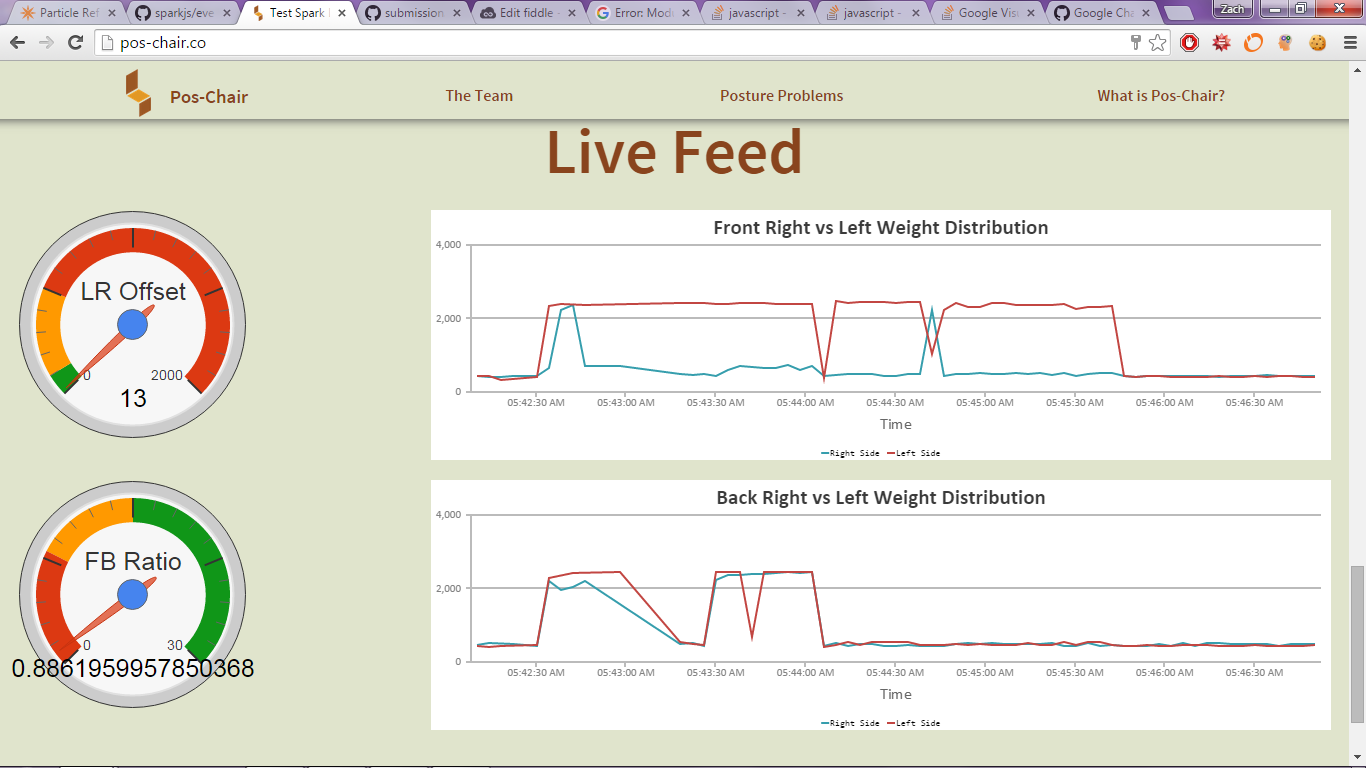
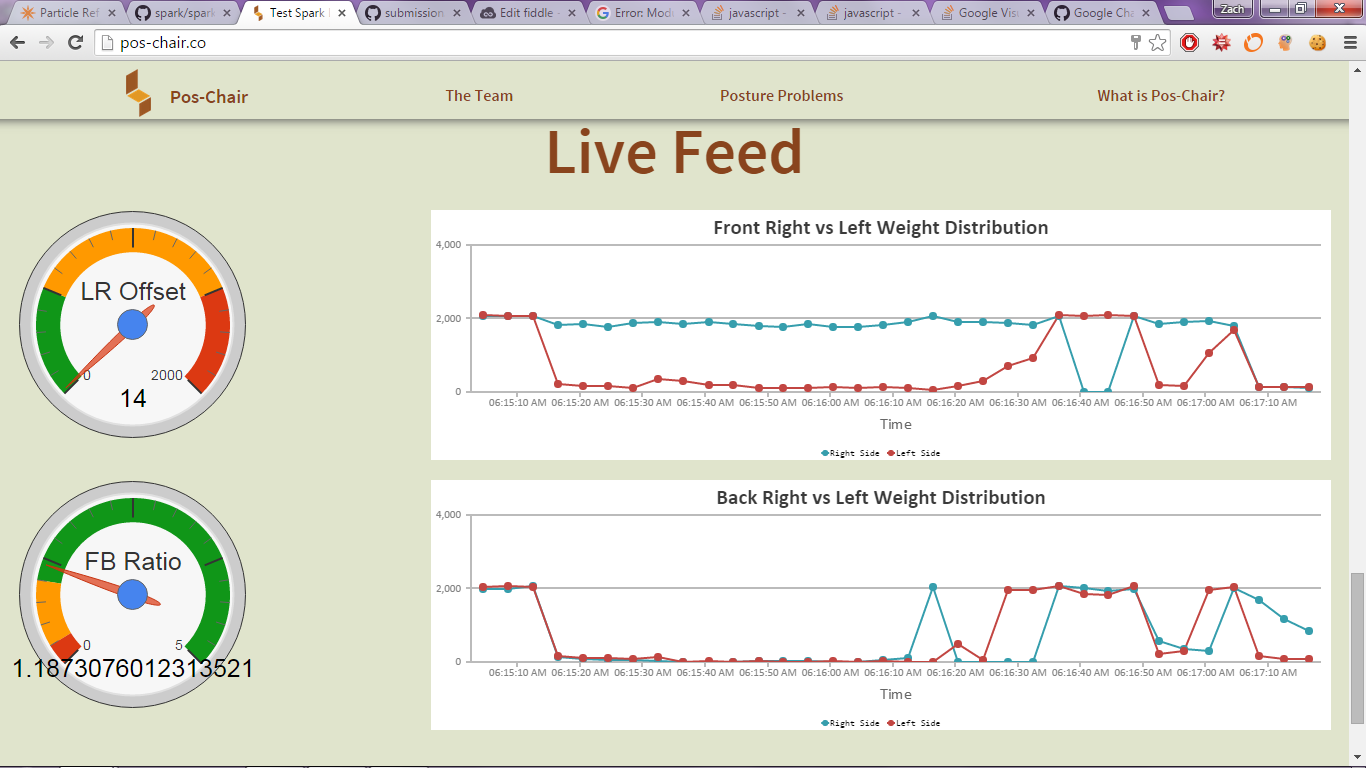
Changed Title and some stuff

diff --git a/web/index.html b/web/index.html
@@ -2,7 +2,7 @@
 <html>
 
 <head>
-	<title>Test Spark Login</title>
+	<title>Pos-Chair</title>
     <script type='text/javascript' src="https://www.google.com/jsapi"></script>
     <script src="http://cdn.jsdelivr.net/sparkjs/0.5.2/spark.min.js"></script>
     <script src="/js/jquery-1.11.3.min.js"></script>
@@ -367,7 +367,7 @@
                             if(!err) {
                                 push(0, {
                                     x: t,
-                                    y: 2500 - data.result
+                                    y: data.result
                                 });
                             }
                             v1 = false;
@@ -379,7 +379,7 @@
                             if(!err) {
                                 push(1, {
                                     x: t,
-                                    y: 2500 - data.result
+                                    y: data.result
                                 });
                             }
                             v2 = false;
@@ -391,7 +391,7 @@
                             if(!err) {
                                 push(2, {
                                     x: t,
-                                    y: 2500 - data.result
+                                    y: data.result
                                 });
                             }
                             v3 = false;
@@ -403,7 +403,7 @@
                             if(!err) {
                                 push(3, {
                                     x: t,
-                                    y: 2500 - data.result
+                                    y: data.result
                                 });
                             }
                             v4 = false;
@@ -413,8 +413,8 @@
                     chartBRL.render();
                     
                     var difRL = Math.abs(dataPoints[0][dataPoints[0].length-1].y - dataPoints[1][dataPoints[1].length-1].y);
-                    var ratFB = Math.abs((dataPoints[0][dataPoints[0].length-1].y + dataPoints[1][dataPoints[1].length-1].y) /
-                                (dataPoints[2][dataPoints[2].length-1].y + dataPoints[3][dataPoints[3].length-1].y));
+                    var ratFB = Math.abs((5000 - dataPoints[0][dataPoints[0].length-1].y + dataPoints[1][dataPoints[1].length-1].y) /
+                                (5000 - dataPoints[2][dataPoints[2].length-1].y + dataPoints[3][dataPoints[3].length-1].y));
                     dataF.setValue(0, 1, difRL);
                     dataFB.setValue(0, 1, ratFB);
                     
@@ -440,9 +440,9 @@
 
             optF = {
                 width: 250, height: 250,
-                redFrom: 500, redTo: 2000,
-                yellowFrom: 100, yellowTo: 500,
-                greenFrom: 0, greenTo: 100,
+                redFrom: 1500, redTo: 2000,
+                yellowFrom: 500, yellowTo: 1500,
+                greenFrom: 0, greenTo: 500,
                 minorTicks: 5, max: 2000
             };
 
@@ -462,10 +462,10 @@
 
             optFB = {
                 width: 250, height: 250,
-                redFrom: 0, redTo: 8,
-                yellowFrom: 8, yellowTo: 15,
-                greenFrom: 15, greenTo: 30,
-                minorTicks: 5, max: 30
+                redFrom: 0, redTo: .25,
+                yellowFrom: .25, yellowTo: 1,
+                greenFrom: 1, greenTo: 5,
+                minorTicks: 5, max: 5
             };
 
             chartFB = new google.visualization.Gauge(document.getElementById('chartFB'));
